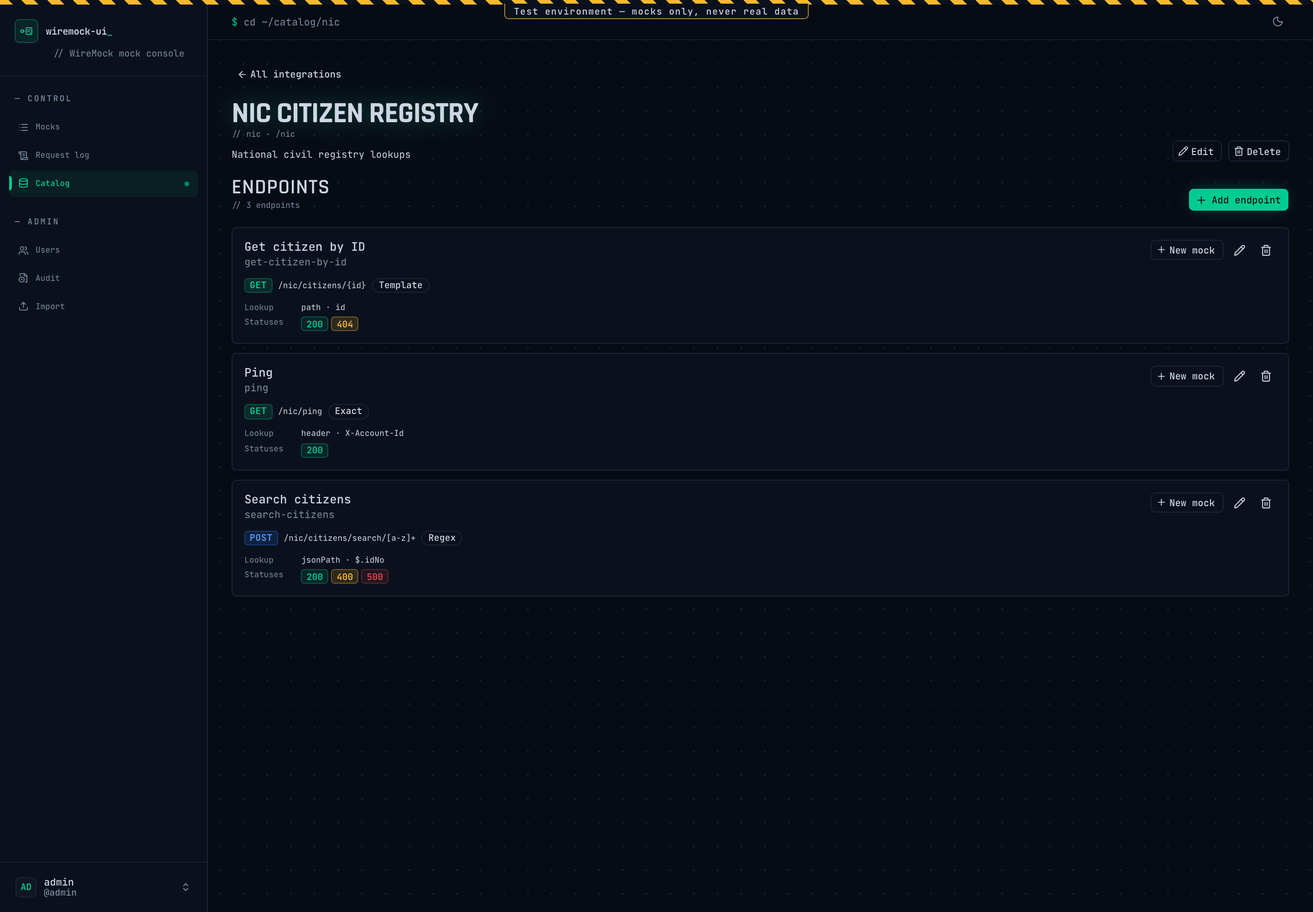
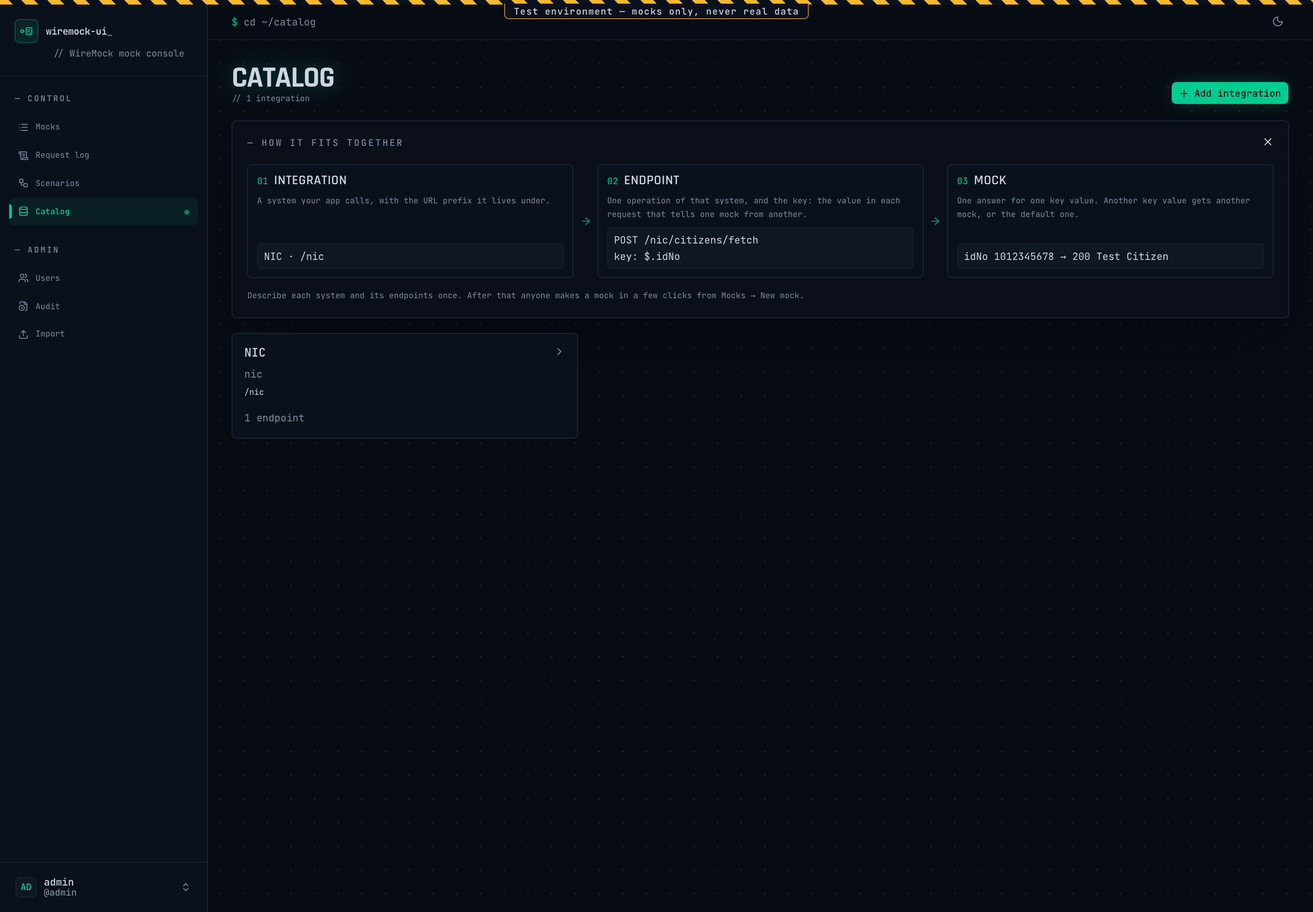
docs: concepts, proxy, webhooks, scenarios, testing and curl; e2e for 2C
USAGE.md opens with Concepts (integration -> endpoint -> mock, with the
NIC example), documents the endpoint pages, the test panel and Copy as
curl, proxies, webhooks (originalRequest in templates), scenarios,
WireMock-only mode and the create-only PUT with If-None-Match: * (409 on
an existing key). New e2e specs cover the test panel and a curl command
run in a shell, Try it, a scenario, a proxy mock and adding an endpoint;
the a11y pass includes the endpoint pages. Catalog and endpoint
screenshots updated.

diff --git a/e2e/power-features.spec.ts b/e2e/power-features.spec.ts
@@ -1,0 +1,151 @@
+import { execFileSync } from 'node:child_process'
+import { expect, test, type APIRequestContext } from '@playwright/test'
+import { USER_A, wiremockUrl } from './env'
+import { signIn } from './helpers'
+
+const AUTH = { Authorization: `Basic ${Buffer.from(`${USER_A.username}:${USER_A.password}`).toString('base64')}` }
+
+// Mocks made here are deleted after each test, so later specs see the seed catalog's mocks only.
+let made: string[] = []
+const remember = (id: string) => (made.push(id), id)
+test.afterEach(async ({ request }) => {
+  for (const id of made) {
+    const res = await request.get(`/api/mocks/${id}`, { headers: AUTH })
+    if (!res.ok()) continue
+    const version = ((await res.json()) as { metadata: { wiremockUi: { version: number } } }).metadata.wiremockUi.version
+    await request.delete(`/api/mocks/${id}?version=${version}`, { headers: AUTH })
+  }
+  made = []
+})
+
+async function createStub(request: APIRequestContext, stub: Record<string, unknown>): Promise<string> {
+  const res = await request.post('/api/mocks', { headers: AUTH, data: stub })
+  expect(res.status(), await res.text()).toBe(201)
+  return remember(((await res.json()) as { id: string }).id)
+}
+
+test('the test panel matches a mock and its curl command works in a shell', async ({ page, context, request }) => {
+  await context.grantPermissions(['clipboard-read', 'clipboard-write'])
+  const created = await request.post('/api/integrations/nic/endpoints/fetch-citizen/mocks', {
+    headers: AUTH,
+    data: { keyValue: '3000000003', status: 200, body: '{"idNo":"3000000003","name":"Curl citizen"}' },
+  })
+  expect(created.status()).toBe(201)
+  const id = remember(((await created.json()) as { id: string }).id)
+
+  await signIn(page, USER_A)
+  await page.goto(`/mocks/${id}`)
+  await page.getByRole('button', { name: 'Test', exact: true }).click()
+  const panel = page.getByRole('dialog', { name: 'Test this mock' })
+  await expect(panel.getByRole('textbox', { name: 'Path' })).toHaveValue('/nic/citizens/fetch')
+  await panel.getByRole('button', { name: 'Send' }).click()
+  await expect(panel.getByText('Matched this mock')).toBeVisible()
+  await expect(panel.getByText('Curl citizen')).toBeVisible()
+
+  await panel.getByRole('button', { name: 'Copy as curl' }).click()
+  await expect(page.getByText('Copied curl command')).toBeVisible()
+  const command = await page.evaluate(() => navigator.clipboard.readText())
+  expect(command).toContain(`${wiremockUrl()}/nic/citizens/fetch`)
+  // The command runs as is in a POSIX shell and gets the mock's answer.
+  const output = execFileSync('sh', ['-c', `${command} -s`], { encoding: 'utf8' })
+  expect(JSON.parse(output)).toEqual({ idNo: '3000000003', name: 'Curl citizen' })
+})
+
+test('Try it on a catalog endpoint sends its example request', async ({ page }) => {
+  await signIn(page, USER_A)
+  await page.goto('/catalog/nic')
+  await page.getByRole('button', { name: 'Try it: Fetch citizen' }).click()
+  const panel = page.getByRole('dialog', { name: 'Try this endpoint' })
+  await expect(panel.getByRole('textbox', { name: 'Body' })).toHaveValue('{"idNo":"1012345678"}')
+  await panel.getByRole('button', { name: 'Send' }).click()
+  await expect(panel.getByText(/Matched by|No match/).first()).toBeVisible()
+})
+
+test('a scenario answers pending then approved, and the page shows and resets the live state', async ({ page, request }) => {
+  const scenario = 'e2e-loan'
+  const base = { request: { method: 'GET', urlPath: '/e2e/loan/status' }, scenarioName: scenario }
+  await createStub(request, {
+    ...base,
+    name: 'Loan pending',
+    requiredScenarioState: 'Started',
+    newScenarioState: 'approved',
+    response: { status: 200, jsonBody: { status: 'pending' } },
+  })
+  await createStub(request, {
+    ...base,
+    name: 'Loan approved',
+    requiredScenarioState: 'approved',
+    response: { status: 200, jsonBody: { status: 'approved' } },
+  })
+
+  await signIn(page, USER_A)
+  await page.goto('/scenarios')
+  const card = page.getByRole('article', { name: scenario })
+  await expect(card.getByText('Now in')).toContainText('Started')
+
+  const call = async () => (await (await fetch(`${wiremockUrl()}/e2e/loan/status`)).json()) as { status: string }
+  expect(await call()).toEqual({ status: 'pending' })
+  expect(await call()).toEqual({ status: 'approved' })
+  await expect(card.getByText('Now in')).toContainText('approved')
+
+  await card.getByRole('button', { name: 'Reset' }).click()
+  await expect(page.getByText(`${scenario} reset to Started`)).toBeVisible()
+  await expect(card.getByText('Now in')).toContainText('Started')
+  expect(await call()).toEqual({ status: 'pending' })
+})
+
+test('a proxy mock made in Simple mode forwards to the real service', async ({ page, request }) => {
+  // The "real service" is WireMock itself, as seen from inside its container.
+  await createStub(request, {
+    name: 'Upstream citizen service',
+    request: { method: 'POST', urlPath: '/upstream/citizens/fetch' },
+    response: { status: 200, jsonBody: { from: 'upstream' } },
+  })
+
+  await signIn(page, USER_A)
+  await page.goto('/mocks/new?integration=nic&endpoint=fetch-citizen')
+  await page.getByLabel('Value of $.idNo in the request body').fill('4000000004')
+  await page.getByRole('radio', { name: 'Forward to a real service' }).click()
+  // /nic/citizens/fetch → strip /nic → http://localhost:8080/upstream/citizens/fetch
+  await page.getByLabel('Service base URL').fill('http://localhost:8080/upstream')
+  await page.getByLabel('Remove path prefix').fill('/nic')
+  await page.getByRole('button', { name: 'Save mock' }).click()
+  await expect(page.getByText('Mock saved')).toBeVisible()
+  await expect(page).toHaveURL(/\/mocks\/[0-9a-f-]{36}$/)
+  remember(page.url().split('/').pop()!)
+
+  const hit = await fetch(`${wiremockUrl()}/nic/citizens/fetch`, {
+    method: 'POST',
+    headers: { 'Content-Type': 'application/json' },
+    body: JSON.stringify({ idNo: '4000000004' }),
+  })
+  expect(hit.status).toBe(200)
+  expect(await hit.json()).toEqual({ from: 'upstream' })
+
+  await page.goto('/mocks?owner=all')
+  await expect(page.getByRole('row', { name: /Fetch citizen — 4000000004/ })).toContainText('Proxy')
+})
+
+test('an endpoint added on its own page is ready for a new mock', async ({ page, request }) => {
+  await signIn(page, USER_A)
+  await page.goto('/catalog/nic')
+  await page.getByRole('link', { name: 'Add endpoint' }).click()
+  await expect(page.getByRole('heading', { level: 1, name: 'Add endpoint' })).toBeVisible()
+  await page.getByLabel('Name').fill('Citizen photo')
+  await page.getByLabel('Endpoint ID').fill('citizen-photo')
+  await page.getByLabel('Path', { exact: true }).fill('/citizens/{id}/photo')
+  await page.getByRole('radio', { name: 'Template' }).click()
+  await page.getByRole('combobox', { name: 'Where the key is' }).click()
+  await page.getByRole('option', { name: 'Path variable' }).click()
+  await page.getByLabel('Key expression').fill('id')
+  const preview = page.getByRole('region', { name: 'How testers will see this' })
+  await expect(preview).toContainText('Citizen photo')
+  await expect(preview).toContainText('Value of path parameter id')
+  await page.getByRole('button', { name: 'Save endpoint' }).click()
+  await expect(page).toHaveURL(/\/catalog\/nic$/)
+  await page.getByRole('button', { name: 'New mock from this endpoint' }).click()
+  await expect(page).toHaveURL(/\/mocks\/new\?.*endpoint=citizen-photo/)
+  await expect(page.getByLabel('Value of path parameter id')).toBeVisible()
+  const removed = await request.delete('/api/integrations/nic/endpoints/citizen-photo', { headers: AUTH })
+  expect(removed.status()).toBe(204)
+})

diff --git a/e2e/a11y.spec.ts b/e2e/a11y.spec.ts
@@ -38,6 +38,8 @@ for (const theme of ['dark', 'light'] as const) {
         ['/scenarios', 'Scenarios'],
         ['/catalog', 'Catalog'],
         ['/catalog/nic', 'NIC'],
+        ['/catalog/nic/endpoints/new', 'Add endpoint'],
+        ['/catalog/nic/endpoints/fetch-citizen/edit', 'Edit endpoint'],
         ['/users', 'Users'],
       ]
       for (const [url, heading] of pages) {

diff --git a/docs/USAGE.md b/docs/USAGE.md
@@ -1,12 +1,30 @@
 # Using wiremock-ui
 
-A walkthrough for testers: describe the systems you call, mock their answers, point your application at WireMock and see what it received. Installation is in [INSTALL.md](INSTALL.md).
+A walkthrough for testers: describe the systems you call, mock their answers, point your application at WireMock and see what it received. New here? Read [Concepts](#concepts-integration--endpoint--mock) first. Installation is in [INSTALL.md](INSTALL.md).
 
 The examples use a made-up citizen lookup: `POST /nic/citizens/fetch` with a body like `{"idNo":"1012345678"}`.
 
 > **Test environments only.** Never put real personal data in a mock.
 
 Every signed-in user can do everything: create, edit and delete any mock, manage the catalog, users and imports. Each mock still records its owner, so "my mocks" stays useful.
+
+## Concepts: integration → endpoint → mock
+
+Three words carry the whole UI. Using the citizen lookup as the example:
+
+| | What it is | In the example |
+|---|---|---|
+| **Integration** | One external system your application calls, and the URL prefix its requests use on WireMock. | **NIC** (the national information center), prefix `/nic` |
+| **Endpoint** | One operation of that system: method, path, and **where the key is**. | **Fetch citizen**: `POST /nic/citizens/fetch`, key `$.idNo` in the JSON body |
+| **Mock** | One answer WireMock gives for one **key value** of an endpoint. | `idNo` `1012345678` → `200 {"name":"Test Citizen"}`; `idNo` `999` → `404` |
+
+**The key** is the value in each request that tells one mock from another. Your application calls `POST /nic/citizens/fetch` for every citizen; only the `idNo` in the body changes. So the endpoint says "the key is `$.idNo`", and each mock answers one `idNo`. A **default mock** answers every request whose key no other mock has.
+
+Why the catalog: someone (often a developer or lead tester) describes each system and endpoint **once**, with example requests and responses. After that, anyone makes a mock in a few clicks: pick the endpoint, type a key value, pick a status. The catalog is not a list of mocks and does not answer requests itself; only mocks do.
+
+The **endpoint ID** (`fetch-citizen`) is just the endpoint's name in URLs and the API. It is not the key.
+
+The Catalog page shows this as a "How it fits together" strip. Hide it with **×**; **How it fits together** in the page header brings it back.
 
 ## Sign in
 
@@ -30,14 +48,32 @@ The catalog lists the external systems your application calls (integrations) and
 - **Name:** `NIC`
 - **URL prefix:** `/nic` (put in front of every endpoint path)
 
-**Add an endpoint.** Open the integration → **Add endpoint**:
+**Add an endpoint.** Open the integration → **Add endpoint**. The form is a page of its own; the panel on the right, **How testers will see this**, shows the endpoint's row in the New mock picker and the key field the mock editor will show, as you type.
 
-- **Key** `fetch-citizen`, **Name** `Fetch citizen`, **Method** `POST`
-- **Path** `/citizens/fetch`, **Path type** `Exact` (use `Template` for `/citizens/{id}`, `Regex` for a pattern)
-- **Lookup location** `JSON body (JSONPath)`, **Lookup expression** `$.idNo`: the value that tells one mock from another
-- **Content type** `JSON`
-- **Allowed statuses** `200` and `404`, with an example response for each. The examples prefill the body of new mocks.
-- Optional: an example request, a description and links to the real system's documentation.
+![Endpoint page](screenshots/endpoint-dark.png)
+
+- **Request:** **Name** `Fetch citizen`, **Endpoint ID** `fetch-citizen`, **Method** `POST`, **Path** `/citizens/fetch`, **Path type**, **Content type** `JSON`.
+  - `Exact`: the path must equal the text. `/citizens/fetch` matches only `/nic/citizens/fetch`.
+  - `Template`: `{name}` marks a segment that changes. `/citizens/{id}` matches `/nic/citizens/42`.
+  - `Regex`: a regular expression (Java dialect). `/citizens/[0-9]+` matches `/nic/citizens/42` but not `/nic/citizens/abc`.
+- **Key:** **Where the key is** `JSON body (JSONPath)` and **Key expression** `$.idNo`. The other places:
+
+  | Where the key is | Expression | Reads `1012345678` from |
+  |---|---|---|
+  | JSON body (JSONPath) | `$.idNo` | `{"idNo":"1012345678"}` |
+  | XML body (XPath) | `/Envelope/Body/id` | `<Envelope><Body><id>1012345678</id></Body></Envelope>` |
+  | Query parameter | `id` | `/nic/citizens?id=1012345678` |
+  | Path variable (Template paths) | `id` | `/nic/citizens/1012345678` with path `/citizens/{id}` |
+  | Header | `X-Account-Id` | `X-Account-Id: 1012345678` |
+  | Form field | `accountId` | `accountId=1012345678&lang=en` |
+
+  **No key** means every mock of the endpoint answers every request to it (only a default answer makes sense).
+- **Examples:** an **example request** (what **Try it** sends), the **allowed statuses** `200` and `404`, and one tab per status with its **example response**. The examples prefill the body of new mocks.
+- **About:** a description and links to the real system's documentation.
+
+**Save endpoint** goes back to the integration and offers **New mock from this endpoint** in the toast. Leaving the page with unsaved changes asks first. Editing an endpoint (the pencil on its row) uses the same page; its ID cannot change.
+
+**Try it** on an endpoint's row opens the test panel with the endpoint's example request, so you can see which mock (if any) answers it today.
 
 ## Create a mock in Simple mode
 
@@ -57,6 +93,8 @@ Other status presets: **Not found** (404), **Validation error** (400), **Server 
 **A default mock** answers every request that no key mock matches. Turn on **Default answer (when no key matches)**, pick for example **Not found**, and save. Key mocks always win over the default.
 
 **Preview** shows the exact WireMock stub that will be saved.
+
+The **About this endpoint** panel beside the form says what the key is in plain words. The same form can also forward to a real service, call back after responding and take part in a scenario (see below).
 
 ## Point your application at WireMock and check
 
@@ -91,6 +129,66 @@ The details drawer lists the **near misses**: the mocks that came closest, each 
 For the request above you would see the key mock `Fetch citizen — 1012345678` with the `body` row expecting `matchesJsonPath $.idNo equalTo 1012345678` while the request had `999`. Rows marked **Not checked** use matchers the UI cannot evaluate itself; WireMock still applies them.
 
 **Create mock from this request** starts a new mock with the request's method, path and JSON body.
+
+## Test a mock and copy it as curl
+
+**Test** in the header of a saved mock opens the test panel with a request that mock should match: its method, a concrete path, the key value where the endpoint looks for it, and the catalog example body. Edit anything, then **Send**. The UI sends the request to WireMock (the stub port only) and shows the status, the time it took, the headers and the body, and a stamp:
+
+- **Matched this mock**: the saved version answered.
+- **Matched another mock: <name>**: another mock won (a link opens it).
+- **No match**: WireMock found nothing; **See unmatched requests** opens the request log.
+
+![Test panel](screenshots/test-panel-dark.png)
+
+**Copy as curl** (in the test panel, the editor header, a mock's row menu and the request-log drawer) copies a curl command for the same request, using `WIREMOCK_PUBLIC_URL` (the URL your machines use to reach WireMock). It pastes into any POSIX shell as is, quotes, newlines and `$` included. When a mock matches a regex path the UI cannot fill, the path is left as the pattern for you to edit.
+
+In the request log, **Resend** opens the test panel with a logged request.
+
+## Forward to a real service (proxy)
+
+A mock can forward the request to a real service instead of answering itself: in Simple mode, **Answer with** → **Forward to a real service**.
+
+![Proxy and webhook](screenshots/proxy-webhook-dark.png)
+
+- **Service base URL** `https://nic.test.example`: the request goes there plus its path.
+- **Remove path prefix** `/nic` (optional): cut from the path first, so `/nic/citizens/fetch` goes to `https://nic.test.example/citizens/fetch`. **Use /nic** fills in the integration's prefix; the line below shows the route.
+- **Headers to add** and **Headers to remove** (for example `Authorization, Cookie`).
+
+The real service's status, headers and body come back unchanged, so there is no status or body to fill in. A typical use: mock a few key values and forward every other one (a default mock that forwards). The request goes out from wherever WireMock runs. The mock list marks forwarding mocks **Proxy**.
+
+## Call back after responding (webhooks)
+
+Turn on **Call back after responding** to have WireMock send a request of its own after it answers, for example the "status changed" callback your application waits for.
+
+- **Method** and **Callback URL** (`http://` or `https://`; the URL may use templates).
+- **Headers** and **Body**. The body is a WireMock template; copy values from the request that triggered it with `originalRequest`, for example `{"citizen":"{{jsonPath originalRequest.body '$.idNo'}}"}`. Use `originalRequest`, not `request`: in a webhook WireMock 3.13.1 names the incoming request `originalRequest`, and `request.body` is empty there.
+- **Wait before calling**: none, a fixed number of milliseconds, or a random time between two values (at most 600000 ms).
+
+The callback is sent from WireMock's machine: `http://localhost:…` means WireMock's own host, not yours.
+
+## Scenarios: answer differently on later calls
+
+Some flows need the same request to get a different answer the second time: "pending" first, "approved" after. WireMock does this with scenarios, a named state shared by several mocks.
+
+In the mock editor, turn on **Answer differently on later calls** (section **Scenario (stateful)**):
+
+- **Scenario name**: pick one other mocks use or type a new one. Mocks with the same name share one state.
+- **Only answers when the scenario is in state**: every scenario starts in `Started`; leave it blank for `Started`.
+- **Then move the scenario to state** (optional): where the scenario goes after this mock answers.
+
+For the loan example: mock **Loan pending** answers in `Started` and moves to `approved`; mock **Loan approved** answers in `approved` and stays. The first call gets "pending", every later call "approved".
+
+![Scenarios](screenshots/scenarios-dark.png)
+
+**Scenarios** in the sidebar lists every scenario as a small state machine: the states as boxes, the mocks as arrows from the state they answer in to the state they move to, and the **live state** from WireMock (refreshed every 2 seconds while the page is visible). **Set as current** on a state moves the scenario there; **Reset** puts one scenario back to `Started`, **Reset all** every scenario. A WireMock restart also resets every scenario to `Started`.
+
+## WireMock-only mode (no store)
+
+When the UI runs with `STORE_DRIVER=none` (see [Installing](INSTALL.md#run-against-an-existing-wiremock-no-storage)), it works directly on a WireMock you already have: the mock list is WireMock's own stubs, and your edits go straight into WireMock. Nothing is kept by the UI, so:
+
+- there is one account (`ADMIN_USER`), no **Users** management, no **History** or restore, and no My/All mocks switch (everything is listed);
+- the catalog lives in memory: the Catalog page says "Catalog changes are kept in memory and lost on restart (WireMock-only mode)". Put the catalog in a `SEED_PATH` file to keep it;
+- the request log, test panel, curl, proxies, webhooks and scenarios work as usual.
 
 ## Advanced JSON mode, history and conflicts
 
@@ -197,8 +295,8 @@ WM=http://localhost:8080
 AUTH=ci-bot:its-password
 JSON='Content-Type: application/json'
 
-# Catalog: an integration and an endpoint (PUT creates or replaces)
-curl -u $AUTH -X PUT $UI/api/integrations/nic -H "$JSON" -d '{"name":"NIC","prefix":"/nic"}'
+# Catalog: an integration and an endpoint. PUT creates or replaces; add If-None-Match: * to only create
+curl -u $AUTH -X PUT $UI/api/integrations/nic -H 'If-None-Match: *' -H "$JSON" -d '{"name":"NIC","prefix":"/nic"}'
 curl -u $AUTH -X PUT $UI/api/integrations/nic/endpoints/fetch-citizen -H "$JSON" -d '{
   "name": "Fetch citizen", "method": "POST", "path": "/citizens/fetch", "pathType": "exact",
   "lookup": { "location": "jsonPath", "expression": "$.idNo" },
@@ -266,6 +364,7 @@ curl -b jar -X POST $UI/api/mocks/reset-mine -H 'X-CSRF-Token: <token>'
 - **Accounts:** `POST /api/users` takes `username`, `password` and an optional `displayName`. `POST /api/session/password` with `{ "current", "next" }` changes your own password. Resetting your own password through `/api/users` keeps the session you did it from and ends your other sessions.
 - **Rate limit:** browser sign-in and Basic auth share one limit of 10 failed attempts per 15 minutes per client IP; after that every attempt from that IP gets `429`, even with the right password, until the window ends. No `WWW-Authenticate` challenge is sent, so browsers never pop up a login dialog.
 - **Cookies** are `Secure` when `PUBLIC_UI_URL` is https, or when `TRUST_PROXY` is on and the proxy sends `X-Forwarded-Proto: https`.
+- **Create-only catalog writes:** `PUT /api/integrations/<key>` and `PUT /api/integrations/<key>/endpoints/<endpoint>` replace what is there. Send `If-None-Match: *` to create only: when the key already exists the answer is `409` (`An integration with this key already exists` / `An endpoint with this key already exists`) and nothing changes. The UI uses this when you add an integration or an endpoint, so two people adding the same key cannot overwrite each other.
 - **Catalog:** endpoints with `pathType: regex` are matched by WireMock, so the pattern uses Java's regex dialect; the UI only checks that it parses as a JavaScript regex. An endpoint cannot be deleted while mocks built from it exist, and an integration cannot be deleted while it has mocks (`409`).
 - **Imports** over 10 MB get `413`.
 - **Test requests** (`POST /api/test-request`) go only to `WIREMOCK_URL`'s stub port, without WireMock's admin credentials, and never follow redirects. Paths must start with `/`; absolute URLs, `/__admin`, `.`/`..` segments and encoded slashes are refused (`400`). `Host`, `Content-Length` and hop-by-hop headers are dropped; line breaks or characters beyond Latin-1 in header values are refused. `Accept-Encoding: identity` is sent unless you set it, so the headers shown describe the body. Bodies are limited to 1 MB each way (a longer response comes back cut, with `bodyTruncated: true`); binary responses come back base64 (`bodyIsBase64: true`). The relay waits 30 s.

diff --git a/README.md b/README.md
@@ -4,7 +4,10 @@ A web console for [WireMock](https://wiremock.org) built for testers. Describe t
 
 ![The mocks list](docs/screenshots/mocks-dark.png)
 
+- **A catalog** of the systems your application calls: each **integration** (NIC at `/nic`) has **endpoints** (`POST /nic/citizens/fetch`, key `$.idNo`), and each **mock** answers one key value. The Catalog page explains this in one glance.
 - **Simple mode** builds a mock from a catalog endpoint: a key value, a status preset and a body prefilled from the catalog's example. **Advanced mode** edits the full stub JSON.
+- **Test a mock** from the editor (or **Try it** on an endpoint) and see which mock answered; **Copy as curl** for any mock or logged request.
+- **Forward to a real service** (proxy), **call back after responding** (webhooks) and **scenarios** ("pending" first, "approved" after) with a live state view.
 - **Request log** updates live and stamps unmatched requests **No match**, with the closest mocks and the fields that differed.
 - **History and restore** for every mock, conflict detection when two people edit the same one, an **audit log** of every change.
 - **Import** bundles or WireMock exports, and seed baseline mocks on start.
@@ -29,7 +32,7 @@ Other ways to run it: with Redis, from source, or **against a WireMock you alrea
 ## Documentation
 
 - [Installing](docs/INSTALL.md): the ways to run it (Compose without Redis, Compose with Redis, from source, or against an existing WireMock with no storage), every setting, Kubernetes, backups, upgrades and troubleshooting.
-- [Using it](docs/USAGE.md): a walkthrough from the catalog to the request log, Advanced mode and history, users and audit, imports and seeding, and the API for scripts and CI.
+- [Using it](docs/USAGE.md): the concepts (integration → endpoint → mock), a walkthrough from the catalog to the request log, testing and curl, proxies, webhooks, scenarios, WireMock-only mode, Advanced mode and history, users and audit, imports and seeding, and the API for scripts and CI.
 
 ## Development
 
@@ -45,7 +48,7 @@ npm run typecheck
 npm run build && npm start
 ```
 
-`npm run test:e2e` starts its own stack: a WireMock container with admin auth (through Testcontainers) and the built app on a temporary SQLite file at http://127.0.0.1:3417 (`E2E_UI_PORT` changes the port), seeded from `tests/fixtures/e2e-seed/`. It covers the tester's flow from the catalog to the near-miss explanation, two people editing each other's mocks, and an axe-core accessibility pass in light and dark themes.
+`npm run test:e2e` starts its own stack: a WireMock container with admin auth (through Testcontainers) and the built app on a temporary SQLite file at http://127.0.0.1:3417 (`E2E_UI_PORT` changes the port), seeded from `tests/fixtures/e2e-seed/`. It covers the tester's flow from the catalog to the near-miss explanation, two people editing each other's mocks, the test panel and a curl command run in a shell, Try it, a scenario, a proxy mock, adding an endpoint on its page, and an axe-core accessibility pass in light and dark themes.
 
 The restart scripts use host ports 8080 and 3000; set `WIREMOCK_PORT` and `UI_PORT` to use others.
 
